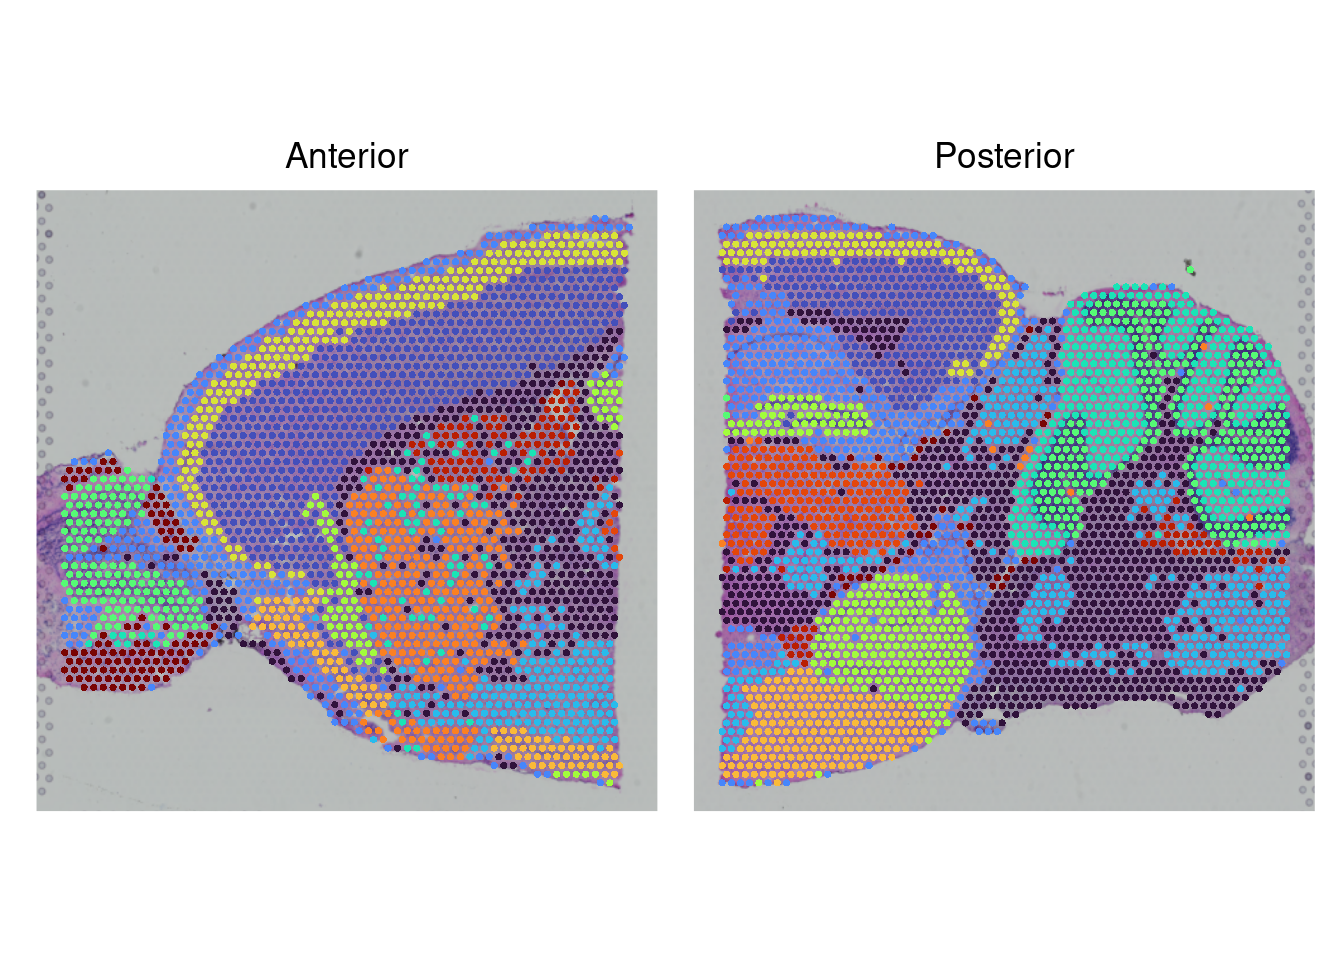
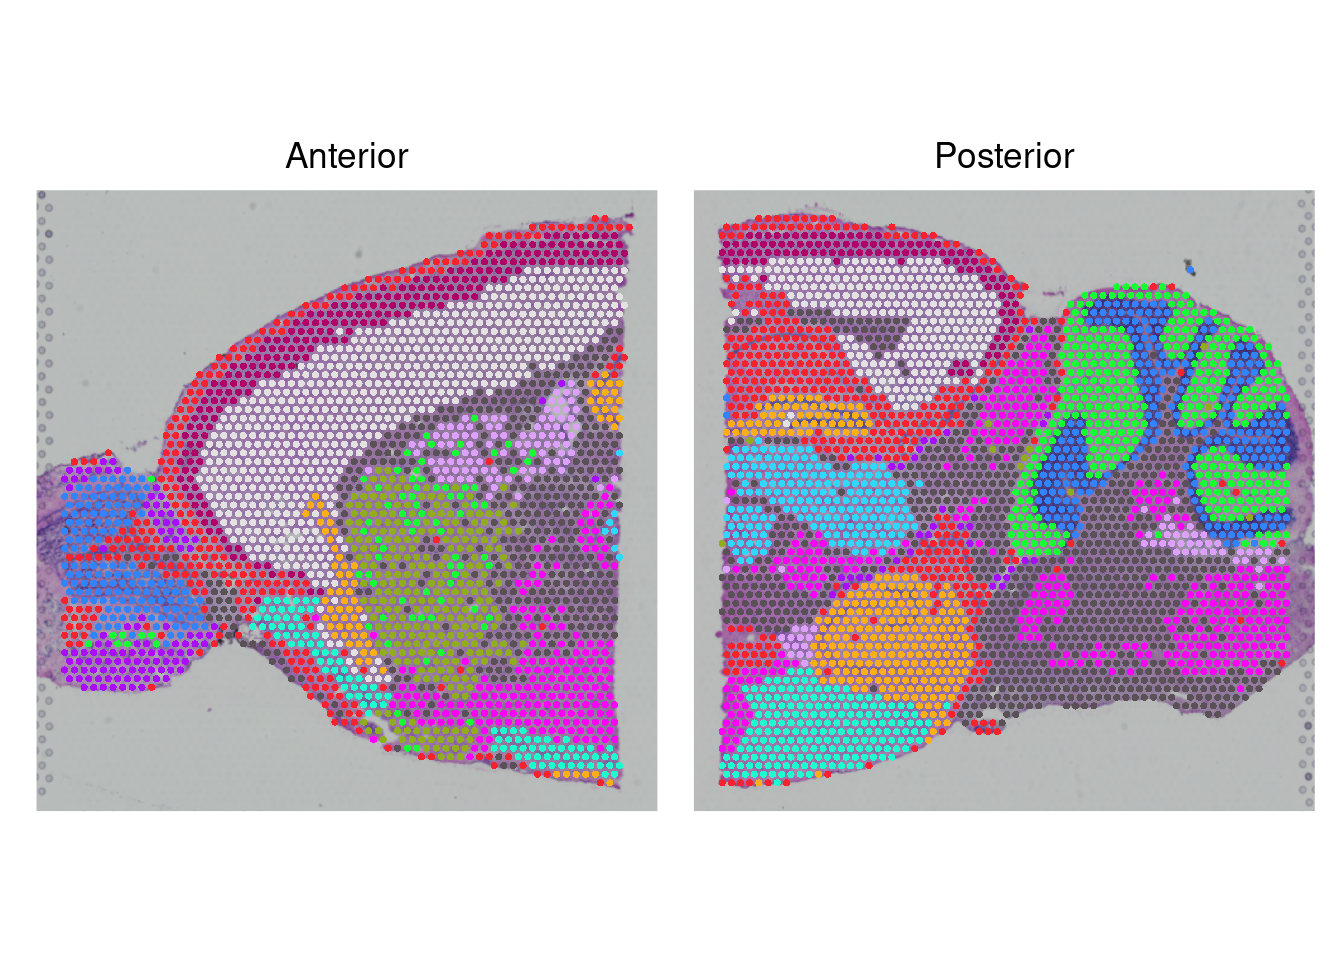
Built site for gh-pages

Changed region(s): [[0.5312, 0.2188, 0.9688, 0.8438], [0.0312, 0.2188, 0.4688, 0.8125]]

diff --git a/4_integration_clustering.html b/4_integration_clustering.html
@@ -491,8 +491,9 @@ Warning
 </div>
 <p>Now that we have selected a resolution, we can color both the UMAP and the slices accordingly. First we defnie some appropriate colors, then we plot the UMAP with <code>DimPlot</code> and the slices with <code>SpatialPlot</code>.</p>
 <div class="cell">
-<div class="sourceCode" id="cb21"><pre class="downlit sourceCode r code-with-copy"><code class="sourceCode R"><span><span class="va">nclust</span> <span class="op">&lt;-</span> <span class="va">seu</span><span class="op">[[</span><span class="va">res</span><span class="op">]</span><span class="op">]</span> <span class="op">|&gt;</span> <span class="fu"><a href="https://rdrr.io/r/base/unique.html">unique</a></span><span class="op">(</span><span class="op">)</span> <span class="op">|&gt;</span> <span class="fu"><a href="https://rdrr.io/r/base/nrow.html">nrow</a></span><span class="op">(</span><span class="op">)</span></span>
-<span><span class="va">cluster_cols</span> <span class="op">&lt;-</span> <span class="fu">viridis</span><span class="fu">::</span><span class="fu"><a href="https://sjmgarnier.github.io/viridis/reference/viridis_pal.html">viridis_pal</a></span><span class="op">(</span>option <span class="op">=</span> <span class="st">"H"</span><span class="op">)</span><span class="op">(</span><span class="va">nclust</span><span class="op">)</span></span>
+<div class="sourceCode" id="cb21"><pre class="downlit sourceCode r code-with-copy"><code class="sourceCode R"><span><span class="co"># define a color palette based on the number of clusters</span></span>
+<span><span class="va">nclust</span> <span class="op">&lt;-</span> <span class="va">seu</span><span class="op">[[</span><span class="va">res</span><span class="op">]</span><span class="op">]</span> <span class="op">|&gt;</span> <span class="fu"><a href="https://rdrr.io/r/base/unique.html">unique</a></span><span class="op">(</span><span class="op">)</span> <span class="op">|&gt;</span> <span class="fu"><a href="https://rdrr.io/r/base/nrow.html">nrow</a></span><span class="op">(</span><span class="op">)</span></span>
+<span><span class="va">cluster_cols</span> <span class="op">&lt;-</span> <span class="fu"><a href="https://satijalab.org/seurat/reference/DiscretePalette.html">DiscretePalette</a></span><span class="op">(</span><span class="va">nclust</span>, palette <span class="op">=</span> <span class="st">"polychrome"</span><span class="op">)</span></span>
 <span></span>
 <span><span class="fu"><a href="https://satijalab.org/seurat/reference/DimPlot.html">DimPlot</a></span><span class="op">(</span><span class="va">seu</span>,</span>
 <span>        group.by <span class="op">=</span> <span class="va">res</span>,</span>
@@ -504,10 +505,10 @@ Warning
 </figure>
 </div>
 </div>
-<div class="sourceCode" id="cb22"><pre class="downlit sourceCode r code-with-copy"><code class="sourceCode R"><span><span class="fu"><a href="https://satijalab.org/seurat/reference/SpatialPlot.html">SpatialPlot</a></span><span class="op">(</span><span class="va">seu</span>, group.by <span class="op">=</span> <span class="va">res</span>, pt.size.factor <span class="op">=</span> <span class="fl">2</span><span class="op">)</span> <span class="op">+</span> </span>
+<div class="sourceCode" id="cb22"><pre class="downlit sourceCode r code-with-copy"><code class="sourceCode R"><span><span class="fu"><a href="https://satijalab.org/seurat/reference/SpatialPlot.html">SpatialPlot</a></span><span class="op">(</span><span class="va">seu</span>, pt.size.factor <span class="op">=</span> <span class="fl">2</span><span class="op">)</span> <span class="op">+</span> </span>
 <span>  <span class="fu"><a href="https://patchwork.data-imaginist.com/reference/plot_layout.html">plot_layout</a></span><span class="op">(</span>guides<span class="op">=</span><span class="st">'collect'</span><span class="op">)</span> <span class="op">&amp;</span></span>
 <span>  <span class="fu"><a href="https://ggplot2.tidyverse.org/reference/theme.html">theme</a></span><span class="op">(</span>legend.position <span class="op">=</span> <span class="st">"none"</span><span class="op">)</span> <span class="op">&amp;</span></span>
-<span>  <span class="fu"><a href="https://ggplot2.tidyverse.org/reference/scale_viridis.html">scale_fill_viridis_d</a></span><span class="op">(</span>option <span class="op">=</span> <span class="st">"H"</span><span class="op">)</span></span></code><button title="Copy to Clipboard" class="code-copy-button"><i class="bi"></i></button></pre></div>
+<span>  <span class="fu"><a href="https://ggplot2.tidyverse.org/reference/scale_manual.html">scale_fill_manual</a></span><span class="op">(</span>values <span class="op">=</span> <span class="va">cluster_cols</span><span class="op">)</span></span></code><button title="Copy to Clipboard" class="code-copy-button"><i class="bi"></i></button></pre></div>
 <div class="cell-output-display">
 <div>
 <figure class="figure"><p><img src="4_integration_clustering_files/figure-html/unnamed-chunk-15-2.png" class="img-fluid figure-img" width="672"></p>
